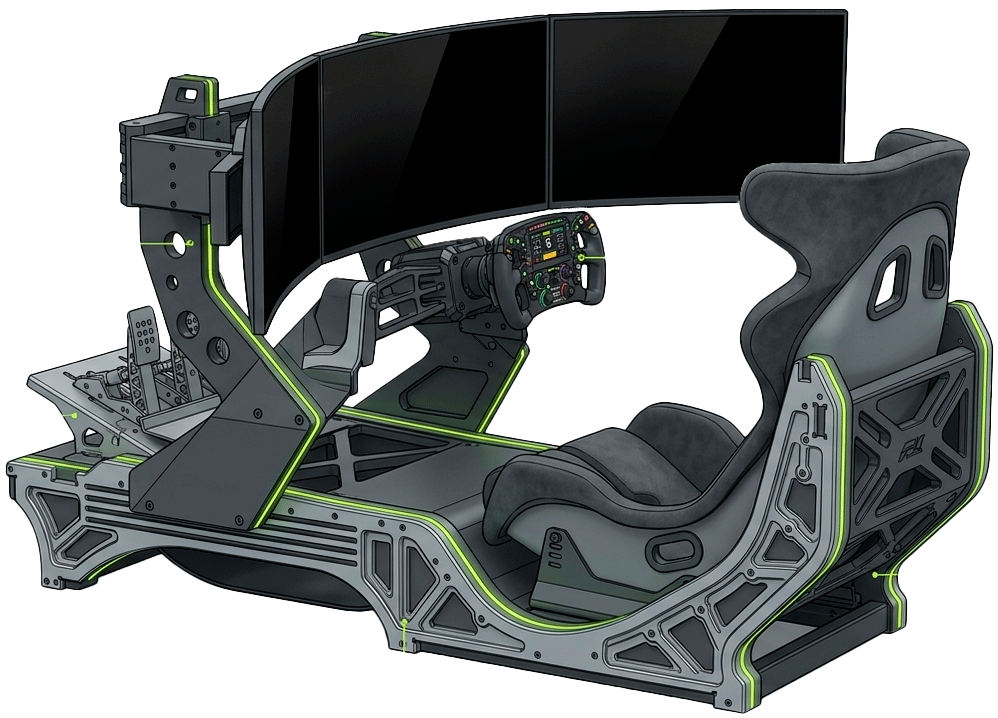
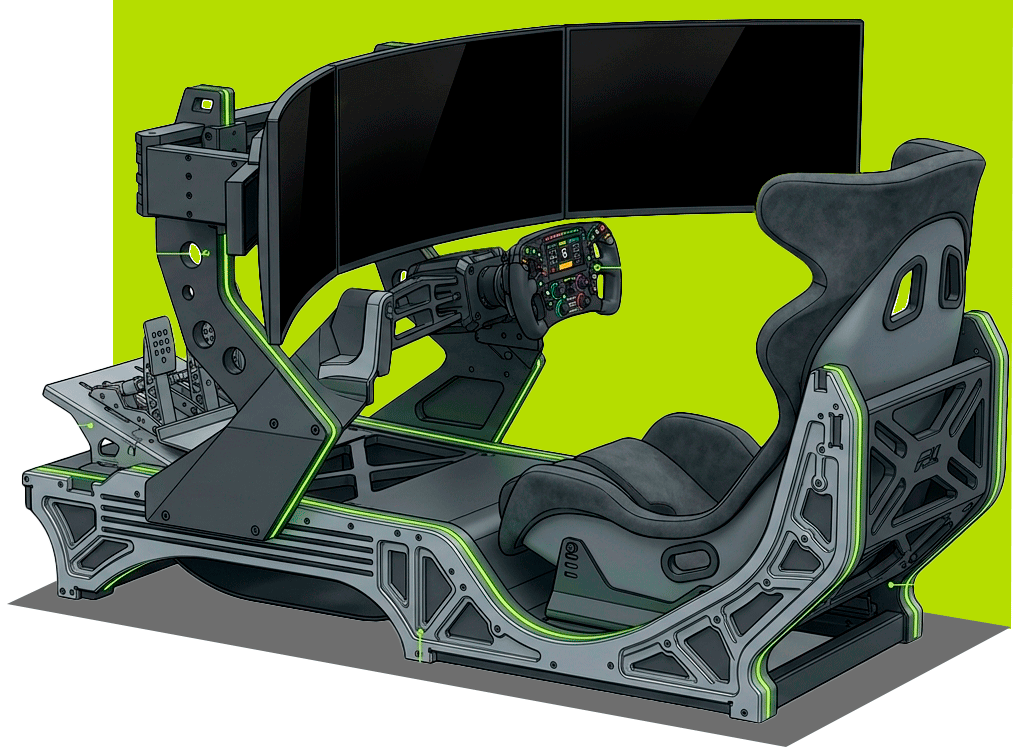
ultimo ajuste antes de la entrega

diff --git a/detalle.html b/detalle.html
@@ -890,8 +890,8 @@
                 <div class="testimonial-user">
                     <img src="images/testimonio_02.jpg" alt="Alumno">
                     <div>
-                        <strong>Martina Díaz</strong>
-                        <span>Competidora</span>
+                        <strong>Martin Díaz</strong>
+                        <span>Competidor</span>
                     </div>
                 </div>
             </article>
@@ -1229,7 +1229,7 @@
     <!-- ===== IMAGEN PANORÁMICA ===== -->
   <section class="process-banner" aria-label="Vista panorámica de la academia APEX">
     <img
-      src="images/imagen_proceso.jpg"
+      src="images/imagen_ctadetalle.jpg"
       alt="Sala de simuladores profesionales APEX"
     />
   </section>
@@ -1237,14 +1237,35 @@
 
 
 
-  <!-- ===== CTA FINAL ===== -->
-  <section class="cta-final">
-    <div class="container cta-final__inner reveal">
-      <h2 class="cta-final__title">El próximo piloto<br />podrías ser vos.</h2>
-      <p class="cta-final__text">Entrená con metodología profesional, tecnología de élite y una comunidad que te impulsa a crecer.</p>
-      <a href="#programas" class="btn btn--dark">Iniciar carrera <span class="arrow">→</span></a>
+  <!-- ===== CTA FINAL · PROGRAMA COMPETITIVO ===== -->
+<section class="cta-programa">
+  <div class="container cta-programa__inner">
+
+    <div class="cta-programa__info">
+      <p class="cta-programa__eyebrow">Programa avanzado</p>
+
+      <h2 class="cta-programa__title">
+        Piloto <span>competitivo</span>
+      </h2>
+
+      <p class="cta-programa__tagline">
+        Entrená. Mejorá. Competí.
+      </p>
     </div>
-  </section>
+
+    <div class="cta-programa__price">
+      <span>Precio total</span>
+      <strong>$470.000</strong>
+      <small>Pago único</small>
+
+      <a href="#contacto" class="btn btn--dark">
+        Quiero inscribirme
+        <span class="arrow">→</span>
+      </a>
+    </div>
+
+  </div>
+</section>
 
 
 